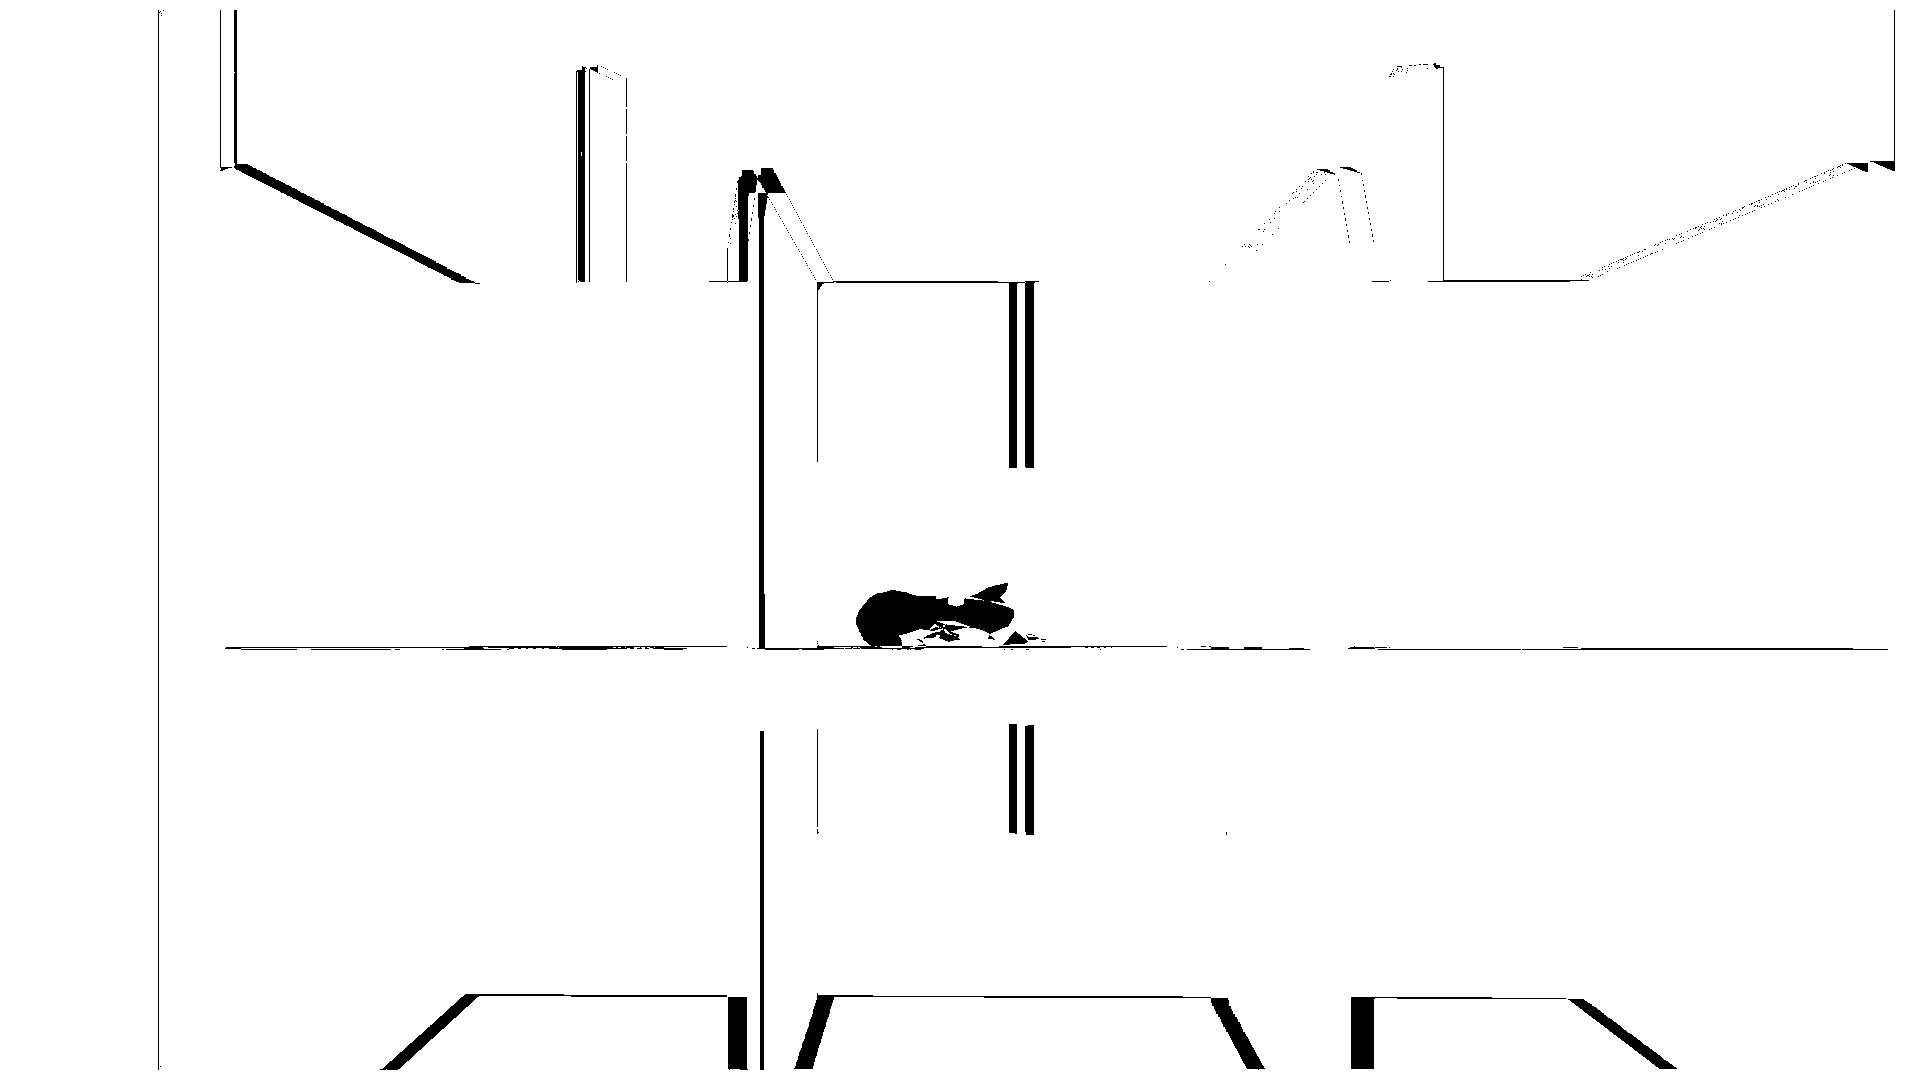
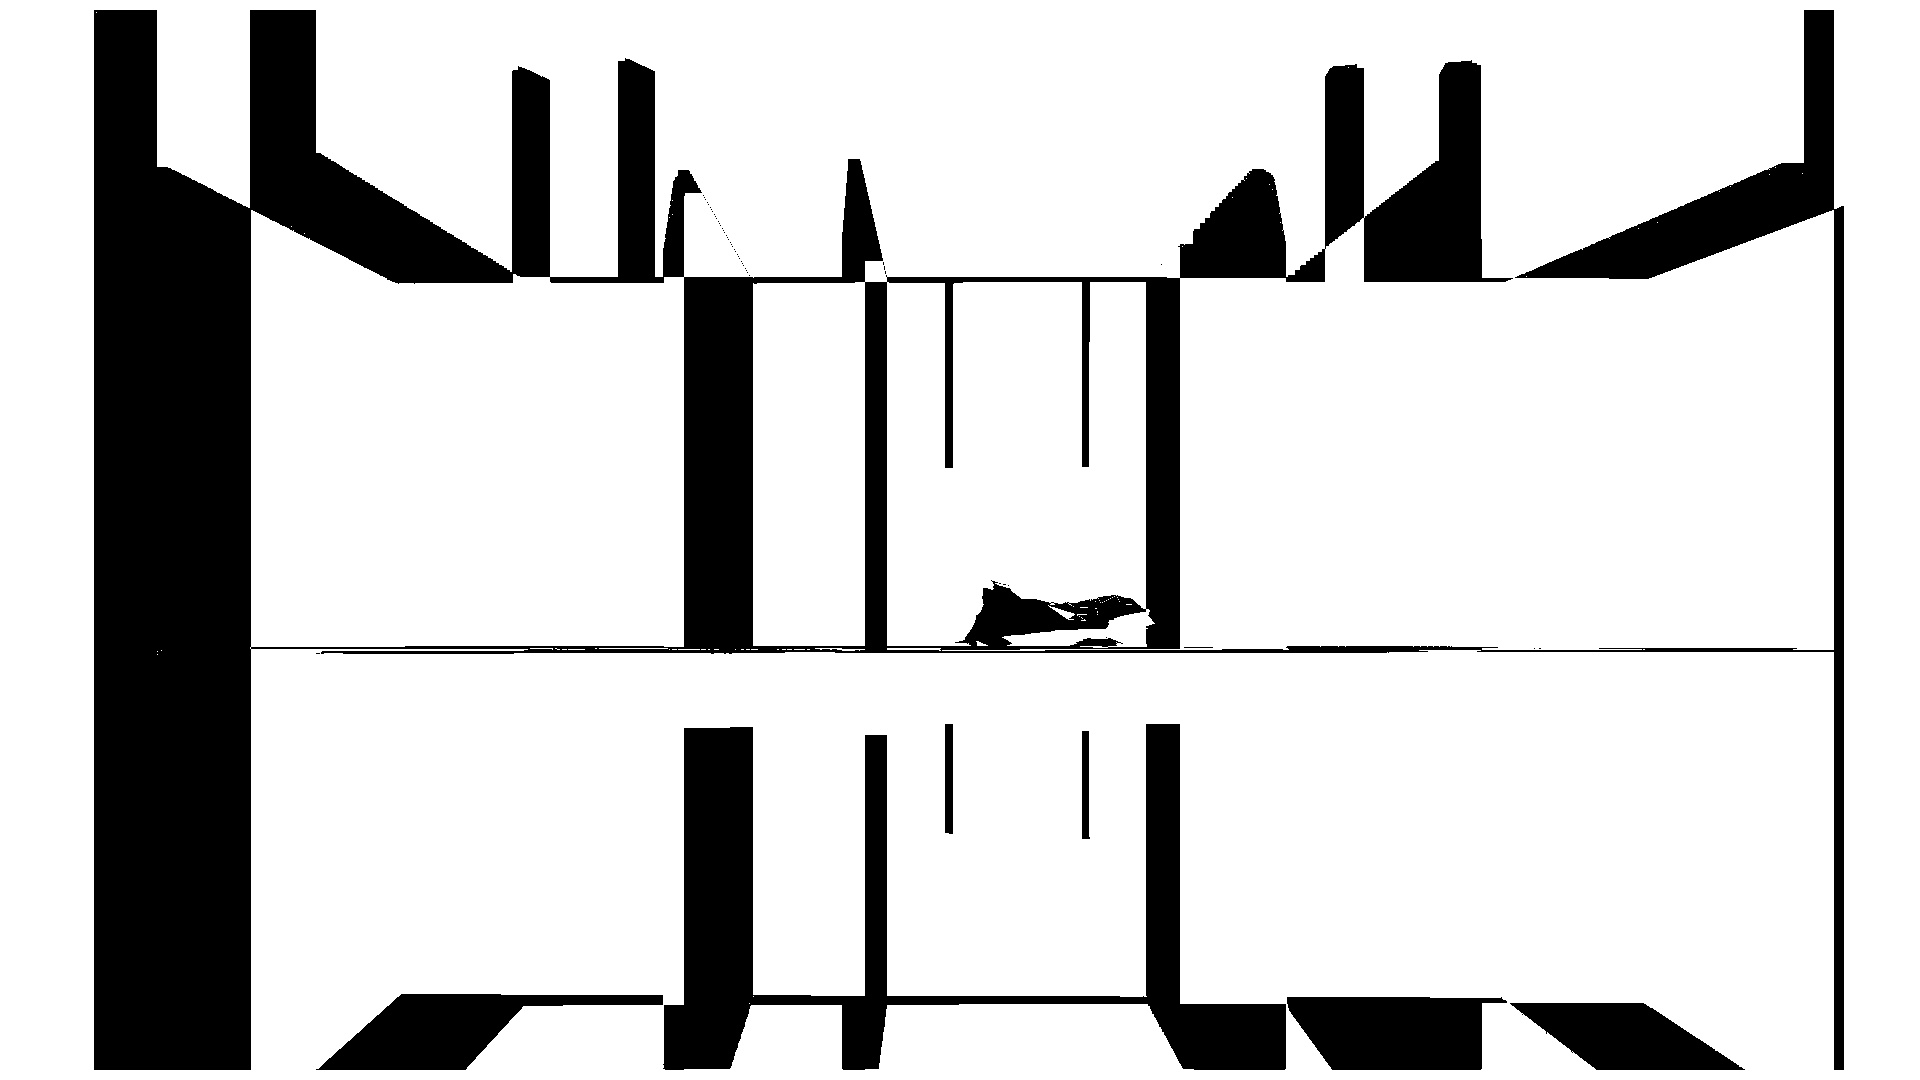
small modified

Changed region(s): [[0.0312, 0.0, 0.9688, 1.0], [0.8125, 0.5806, 0.8438, 0.6111]]

diff --git a/baxter_vision_example/scripts/mask_generate.py b/baxter_vision_example/scripts/mask_generate.py
@@ -17,7 +17,7 @@ class mask_generate():
         self.img_path = self.rospack.get_path('baxter_vision_example') + u"/data/fg.jpg" 
         self.bg_prv = cv2.imread(self.img_path)
         self.delta_x = 0
-        self.threshold = 100
+        self.threshold = 80
         rospy.init_node('mask_generate',anonymous=True)
         rospy.Subscriber("split_fore_background/output/fg",Image,self.callback_bg)    
         rospy.Subscriber("mask_compare/output/delta_x",Int16,self.callback_x)
@@ -27,6 +27,7 @@ class mask_generate():
         self.bg_cur = self.bridge.imgmsg_to_cv2(data,data.encoding)
         self.mask = self.compare_generate(self.bg_prv,self.bg_cur,self.delta_x)
         self.mask_img_path = self.rospack.get_path('baxter_vision_example') + u"/data/mask.jpg" 
+        print self.delta_x
         cv2.imwrite(self.mask_img_path,self.mask)
 
     def callback_x(self,msg):
